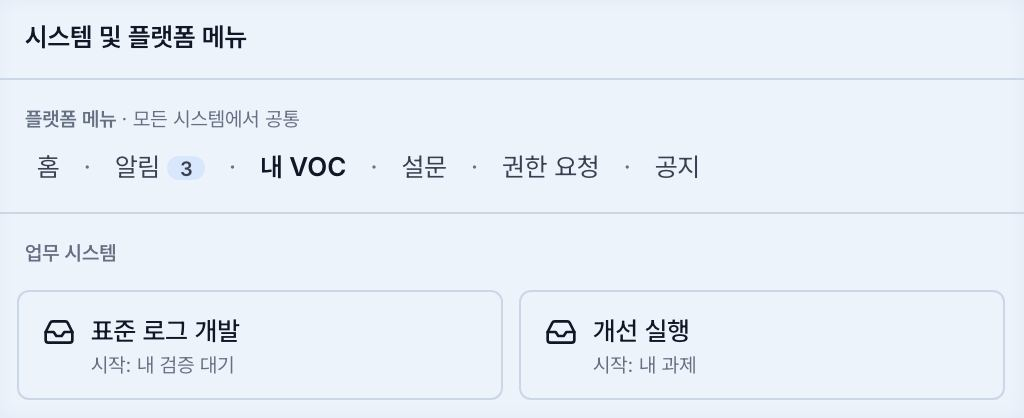
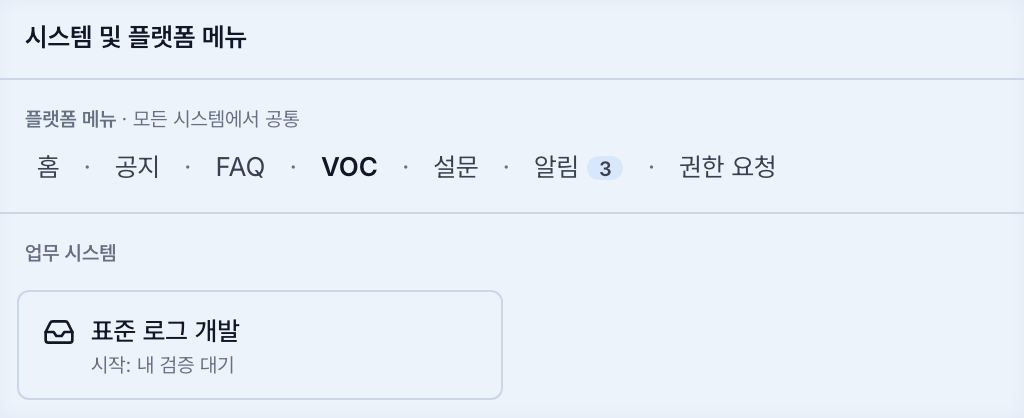
docs(site,#1329): re-shoot real-switcher without the retired 개선 실행 card; caption, alt, ledger row

diff --git a/site/index.html b/site/index.html
@@ -304,7 +304,7 @@
     <h3>권한 요청 · 내 VOC</h3>
     <div class="shots-row row-voc" style="--cols:minmax(0, 1fr) minmax(0, 0.42fr)"><figure class="shot-figure"><img src="assets/real/real-permission-requests.jpg" loading="lazy" alt="권한 요청 페이지. 위쪽에 기능 선택, 사유 입력, ‘요청 보내기’ 단추가 있는 ‘새 권한 요청’ 양식이 있고, 아래 ‘내 권한 요청’에 Power BI의 Survey 조회 요청 한 건이 ‘대기 중’ 표시, 사유, ‘요청 철회’ 단추와 함께 보입니다."><figcaption>권한 요청 · 기능 권한 요청 · 처리 상태 · 대기 중 철회 · 승인은 운영 콘솔 <a class="source-ref" href="#source-L132">L132</a></figcaption></figure><figure class="shot-figure shot-crop"><img src="assets/real/real-voc-detail.jpg" loading="lazy" alt="왼쪽에 내 VOC 목록 네 건이 VOC 번호·제목·처리 상태와 함께 있고, 오른쪽에 열린 VOC 상세 패널. 본문 아래에 ‘화면 정보’(화면·기간·room_name·Scope)와 ‘화면 열기’가 있고, 대화에 담당자의 공개 업데이트 두 건이 상태 변화와 함께 보입니다."><figcaption>내 VOC 상세 패널(오른쪽 부분) · 본문 끝 ‘화면 정보’ · ‘화면 열기’로 그 화면 다시 열기 <a class="source-ref" href="#source-L131">L131</a></figcaption></figure></div>
     <h3>VOC 등록 드로어 · 전환기</h3>
-    <div class="shots-row row-drawer" style="--cols:minmax(0, 1fr) minmax(0, 1.5fr)"><figure class="shot-figure shot-crop"><img src="assets/real/real-voc-drawer.jpg" loading="lazy" alt="오른쪽에 열린 VOC 등록 드로어. 위쪽에 ‘첨부할 화면 정보’ 칩(화면 MARS · 사이클타임 상세, 기간, room_name PHOTO, Scope MEM)이 있고, 아래에 제목·상세 설명이 채워진 입력과 출처·Managed System·Analytics Area·첨부 입력, 취소·VOC 제출 단추가 있습니다."><figcaption>VOC 등록 드로어(위쪽 부분) · 본문을 옆으로 밀고 열림 · 지금 화면 정보가 칩으로 · 칩을 지우면 첨부 안 함 <a class="source-ref" href="#source-L141">L141</a></figcaption></figure><figure class="shot-figure"><img src="assets/real/real-switcher.jpg" loading="lazy" alt="전환기 팝오버. 위쪽 ‘플랫폼 메뉴’ 줄에 홈·알림(배지 3)·내 VOC·설문·권한 요청·공지가 있고, 아래 ‘업무 시스템’에 표준 로그 개발·개선 실행 카드가 있습니다."><figcaption>전환기 · 위는 플랫폼 메뉴 · 아래는 권한 있는 업무 시스템 · 홈 공지는 이번 방문 동안 닫아 둠 <a class="source-ref" href="#source-L131">L131</a></figcaption></figure></div>
+    <div class="shots-row row-drawer" style="--cols:minmax(0, 1fr) minmax(0, 1.5fr)"><figure class="shot-figure shot-crop"><img src="assets/real/real-voc-drawer.jpg" loading="lazy" alt="오른쪽에 열린 VOC 등록 드로어. 위쪽에 ‘첨부할 화면 정보’ 칩(화면 MARS · 사이클타임 상세, 기간, room_name PHOTO, Scope MEM)이 있고, 아래에 제목·상세 설명이 채워진 입력과 출처·Managed System·Analytics Area·첨부 입력, 취소·VOC 제출 단추가 있습니다."><figcaption>VOC 등록 드로어(위쪽 부분) · 본문을 옆으로 밀고 열림 · 지금 화면 정보가 칩으로 · 칩을 지우면 첨부 안 함 <a class="source-ref" href="#source-L141">L141</a></figcaption></figure><figure class="shot-figure"><img src="assets/real/real-switcher.jpg" loading="lazy" alt="전환기 팝오버. 위쪽 ‘플랫폼 메뉴’ 줄에 홈·공지·FAQ·VOC·설문·알림(배지 3)·권한 요청이 있고, 아래 ‘업무 시스템’에 표준 로그 개발 카드가 있습니다."><figcaption>전환기 · 위는 플랫폼 메뉴 · 아래는 권한 있는 업무 시스템 · 홈 공지는 이번 방문 동안 닫아 둠 <a class="source-ref" href="#source-L131">L131</a></figcaption></figure></div>
   </div>
   <details class="evidence-details scene-evidence"><summary>근거</summary><p>이 화면들은 플랫폼 기능 화면이고 데이터는 코어 서버에서 옵니다. 예시 데모에서는 서버가 없어 ‘실서버 필요’를 보이고 알림 종은 배지 없이 보이며 홈의 ‘내 할 일’ 칸은 나오지 않습니다. 그림은 코어 서버를 연결한 실서버 모드에서 시드 사용자로 찍었고, 안에 보이는 VOC·설문·알림·권한 요청은 이 그림을 위해 만든 한국어 예시 데이터입니다. 언어 선택은 사용자 메뉴에 있습니다. <a class="source-ref" href="#source-L131">L131</a> · <a class="source-ref" href="#source-L132">L132</a> · <a class="source-ref" href="#source-L139">L139</a> · <a class="source-ref" href="#source-L141">L141</a></p></details>
   <p class="cond-note">아직 안 됨: 공지 목록 화면.</p>
@@ -3957,7 +3957,7 @@ export type ModuleHost = {
           <div id="source-L136"><h3>L136</h3><p>공개 컴포넌트 수(2026-11-02 다시 셈, main e0ae22111): <code>@ap/components</code> 기본 진입점 38개, <code>@ap/shell</code> 10개(L04), 도킹 진입점(<code>@ap/components/dock</code>) 2개. 셈 방법: <code>tooling/sdk/api/*.root.api.txt</code>(<code>pnpm sdk:api</code> 스냅샷)에서 <code>awk -F' [|] ' '$2=="function" &amp;&amp; $1 ~ /^[A-Z]/ {print $1}' &lt;파일&gt; | wc -l</code>로 센다(대문자 function export, 그리고 forwardRef로 내보낸 FloatingWindow 1개를 더한다). L02·L04와 같은 셈이다</p><p class="caption"><code>tooling/sdk/api/components.root.api.txt</code>, <code>tooling/sdk/api/shell.root.api.txt</code>, <code>tooling/sdk/api/components.dock.api.txt</code>, 위 awk 명령(2026-11-02 main e0ae22111에서 실행) · 이전 값(2026-10-23 main 092344cc): 기본 진입점 29, 도킹 2(<code>sdk-v0.12.0</code> 기준, PR #726·L143)</p></div>
           <div id="source-L137"><h3>L137</h3><p>용어 정리(2026-10-23): 본문·도식·캡션·alt·aria·SVG의 <code>공간</code>→<code>업무 시스템</code>, <code>워크스페이스</code>→<code>업무 시스템</code>, 단독 <code>조회 범위</code>→<code>Scope</code>, <code>실어댑터</code>→<code>서버 어댑터</code>, <code>레일</code>→<code>시스템 레일</code>로 바꿨다. 용어 페이지는 GLOSSARY.md의 용어 이름과 뜻을 따르되 사이트 문체(<code>~합니다</code>, ADR·절 번호 없음, 용어당 한두 문장)로 쓴다. 새 항목(플랫폼 메뉴·시스템 레일·전환기·작업 영역·패널·묶음·탭·높이 방식·화면 맞춤·아래로 쌓기·줄·프리셋·페이지 머리·서버 어댑터·VOC 등록 드로어·VOC 등록과 신고자 등)과 계약 유래 네 항목(딥링크·Audit·추적 번호·VOC)도 같은 문체다(조정자 결정, 2026-10-23). 코드 이름(<code>Space</code>, <code>spaceId</code>, <code>SPACES</code>)과 옛 표기를 인용한 원장 문구(L103의 <code>조회 범위 초과</code>)는 남긴다</p><p class="caption"><code>GLOSSARY.md</code>(PR #715·PR #718·PR #719), <code>site/glossary.html</code> · 2026-10-23 추가. L114는 이 행으로 확장</p></div>
           <div id="source-L138"><h3>L138</h3><p>본문이 인용하는 이슈 상태 점검(2026-10-23, 조정자가 확인해 전달한 목록): 열림 #37 #51 #98 #148 #149 #150 #151 #154 #155 #163 #164 #165 #233 #249 #291 #292 #293 #294 #332 #492 #540 #575 #586 #594 #604 #606 #671. 닫힘 #81 #213 #251 #252 #296–#301 #307 #312 #314 #430 #448 #470 #496–#498 #576 #590 #596 #607 #642 #651–#657 #660 #680 #686 #708. 번호 62 295 589 632 634 636 637 639 646–648 658 664 677 684 692 699 707 711 715 718 719 721은 PR이라 본문에 <code>PR #n</code>으로 쓴다. 2026-10-24 갱신: #657 닫힘(PR #729·#730), #708 닫힘(고치지 않음). 이 목록에 없는 번호는 점검하지 않았다</p><p class="caption">GitHub 이슈 상태(조정자가 2026-10-23에 확인해 전달한 목록) · 이 작업에서 GitHub에 직접 조회하지 않음. 권한·Scope의 #596 줄은 <code>결정됨 · 구현 전</code>, 로드맵의 #213·#252 문구는 닫힘 상태로 맞춤</p></div>
-          <div id="source-L139"><h3>L139</h3><p><code>site/assets/real/</code> JPEG 8장(배율 2, 품질 78, 주제 상자만 잘라 합계 약 550 KB; <code>real-my-voc</code>는 <code>real-voc-detail</code>과 같은 목록을 보여 2026-10-24에 뺐다)은 <code>node site/scripts/shots-real.mjs --url &lt;dev:real 주소&gt; --out site/assets/real</code>로 2026-10-23에 손으로 찍은 실서버 모드 캡처다. 코어 서버(일회용 DB)에 시드 페르소나 <code>mock-user-2</code>로 로그인했고, 이 그림을 위해 만든 한국어 예시 데이터만 보인다: VOC 4건(VOC 등록 드로어로 등록, 그중 2건에 담당자 공개 답변과 상태 변경 → 알림 3건), 설문 2건 중 1건 응답, 권한 요청 1건(권한 요청 화면으로 보낸 Survey 조회 요청; 홈 내 할 일에는 이 요청과 기존 요청 한 건, 응답할 설문, 바뀐 내 VOC가 보인다). 시험용 표식 줄(<code>[preview]</code>·<code>[seed]</code>)은 찍는 동안 숨기고, 보이면 스크립트가 실패한다. Pages CI는 서버 없이 mock 데모만 찍으므로 이 이미지는 CI가 다시 만들지 않는 고정 파일이다</p><p class="caption"><code>site/scripts/shots-real.mjs</code>, <code>site/assets/real/</code> · 2026-10-23 추가, 같은 날 다시 찍음(1x 전체 화면 → 2x 주제 상자). 2026-10-24 <code>real-permission-requests</code>·<code>real-home-todo</code> 추가(FIX4, 2x). 홈 공지 칸의 오류는 이 두 장의 상자 밖이라 내 할 일 상자만 검사한다. 2026-10-24 <code>real-switcher</code>만 팝오버 테두리 안쪽으로 다시 찍음(512×209 CSS px). 총량은 스크립트가 1.5 MB 상한으로 검사. 상세 대화의 작성자 이름은 시드 페르소나의 표시 이름</p></div>
+          <div id="source-L139"><h3>L139</h3><p><code>site/assets/real/</code> JPEG 8장(배율 2, 품질 78, 주제 상자만 잘라 합계 약 550 KB; <code>real-my-voc</code>는 <code>real-voc-detail</code>과 같은 목록을 보여 2026-10-24에 뺐다)은 <code>node site/scripts/shots-real.mjs --url &lt;dev:real 주소&gt; --out site/assets/real</code>로 2026-10-23에 손으로 찍은 실서버 모드 캡처다. 코어 서버(일회용 DB)에 시드 페르소나 <code>mock-user-2</code>로 로그인했고, 이 그림을 위해 만든 한국어 예시 데이터만 보인다: VOC 4건(VOC 등록 드로어로 등록, 그중 2건에 담당자 공개 답변과 상태 변경 → 알림 3건), 설문 2건 중 1건 응답, 권한 요청 1건(권한 요청 화면으로 보낸 Survey 조회 요청; 홈 내 할 일에는 이 요청과 기존 요청 한 건, 응답할 설문, 바뀐 내 VOC가 보인다). 시험용 표식 줄(<code>[preview]</code>·<code>[seed]</code>)은 찍는 동안 숨기고, 보이면 스크립트가 실패한다. Pages CI는 서버 없이 mock 데모만 찍으므로 이 이미지는 CI가 다시 만들지 않는 고정 파일이다</p><p class="caption"><code>site/scripts/shots-real.mjs</code>, <code>site/assets/real/</code> · 2026-10-23 추가, 같은 날 다시 찍음(1x 전체 화면 → 2x 주제 상자). 2026-10-24 <code>real-permission-requests</code>·<code>real-home-todo</code> 추가(FIX4, 2x). 홈 공지 칸의 오류는 이 두 장의 상자 밖이라 내 할 일 상자만 검사한다. 2026-10-24 <code>real-switcher</code>만 팝오버 테두리 안쪽으로 다시 찍음(512×209 CSS px). 2026-11-05 <code>real-switcher</code>만 다시 찍음(#1329): 개선 실행 공간을 접은(#1323) 뒤라 업무 시스템 카드는 표준 로그 개발 한 장이고, 플랫폼 메뉴 줄은 홈·공지·FAQ·VOC·설문·알림·권한 요청이다. 메뉴 이름이 바뀌어 캡처 스크립트의 검사 문구는 손으로 맞춘 사본으로 돌렸다. 총량은 스크립트가 1.5 MB 상한으로 검사. 상세 대화의 작성자 이름은 시드 페르소나의 표시 이름</p></div>
           <div id="source-L140"><h3>L140</h3><p>2026-10-23 문구 정리: 부록 도식 A 설명(L74)과 장면 5(장면 5 요약)의 <code>진행 중</code> 표기를 분석 보드가 동작한다는 현재 상태로 고쳤다(R4.1 완료 v0.14.0, 칸 끌어 배치는 L128). 모바일 목차의 기본 ▶ 표식은 CSS로 바꿨다</p><p class="caption"><code>docs/product/platform-requirements.md</code> R4.1, <code>site/assets/site.css</code> · 소개 사이트 잔여 관찰(백로그) 두 줄의 처리</p></div>
           <div id="source-L141"><h3>L141</h3><p>시스템 레일의 <code>VOC 등록</code>은 본문 오른쪽에 도킹 드로어를 연다. 본문을 밀어내고(overlay 아님) 오른쪽 패널은 한 번에 하나다. 열 때 화면 Context(시스템·메뉴, URL page key, 집계 단위, 기간, 전역 Context, 열린 상세 엔티티, 보이는 Correlation ID)를 지울 수 있는 칩으로 고정하고 지운 칩은 첨부하지 않는다. 제출하면 남은 정보가 설명 끝의 <code>화면 정보</code>와 <code>화면 열기</code> 링크로 붙는다. 작성 화면은 VOC 기능 화면이다. mock 데모에서는 드로어와 칩은 보이고 작성 화면 자리에 <code>실서버 필요</code>가 보인다(캡처 <code>voc-drawer</code>).</p><p class="caption">ADR-0070 결정 4–5, <code>packages/sdk/shell/src/voc/VocDrawer.tsx</code>, <code>apps/platform-web/src/feature-systems.ts</code>, GitHub #656·PR #727 · 2026-10-23 추가. 실서버 캡처 <code>real-voc-drawer</code>·<code>real-voc-detail</code>, mock 캡처 <code>voc-drawer</code></p></div>
           <div id="source-L142"><h3>L142</h3><p>알림·설문·내 VOC·VOC 등록 화면은 기능 화면(<code>apps/feature-screens</code>)을 플랫폼 소비 패키지(<code>platform/my-activity</code>)로 플랫폼 안에 올린 것이고, 데이터는 <code>/api/features</code> 앞단을 거쳐 코어 서버(<code>apps/platform-api</code>)에서 온다. VOC·Task 처리 화면은 사용자에게는 <code>내 활동</code>, 운영자에게는 <code>운영 콘솔</code>에서 열린다(ADR-0100)</p><p class="caption">ADR-0070, ADR-0097, ADR-0100, <code>apps/platform-web/src/feature-systems.ts</code> · 2026-10-23 추가, 2026-10-29 정정. 부록 위험 표 <code>코어 서버 의존</code> 행의 근거</p></div>

diff --git a/site/SOURCES.md b/site/SOURCES.md
@@ -150,7 +150,7 @@
 | L136 | 공개 컴포넌트 수(2026-11-02 다시 셈, main e0ae22111): `@ap/components` 기본 진입점 38개, `@ap/shell` 10개(L04), 도킹 진입점(`@ap/components/dock`) 2개. 셈 방법: `tooling/sdk/api/*.root.api.txt`(`pnpm sdk:api` 스냅샷)에서 `awk -F' [\|] ' '$2=="function" && $1 ~ /^[A-Z]/ {print $1}' <파일> \| wc -l`로 센다(대문자 function export, 그리고 forwardRef로 내보낸 FloatingWindow 1개를 더한다). L02·L04와 같은 셈이다 | `tooling/sdk/api/components.root.api.txt`, `tooling/sdk/api/shell.root.api.txt`, `tooling/sdk/api/components.dock.api.txt`, 위 awk 명령(2026-11-02 main e0ae22111에서 실행) | 이전 값(2026-10-23 main 092344cc): 기본 진입점 29, 도킹 2(`sdk-v0.12.0` 기준, PR #726·L143) |
 | L137 | 용어 정리(2026-10-23): 본문·도식·캡션·alt·aria·SVG의 `공간`→`업무 시스템`, `워크스페이스`→`업무 시스템`, 단독 `조회 범위`→`Scope`, `실어댑터`→`서버 어댑터`, `레일`→`시스템 레일`로 바꿨다. 용어 페이지는 GLOSSARY.md의 용어 이름과 뜻을 따르되 사이트 문체(`~합니다`, ADR·절 번호 없음, 용어당 한두 문장)로 쓴다. 새 항목(플랫폼 메뉴·시스템 레일·전환기·작업 영역·패널·묶음·탭·높이 방식·화면 맞춤·아래로 쌓기·줄·프리셋·페이지 머리·서버 어댑터·VOC 등록 드로어·VOC 등록과 신고자 등)과 계약 유래 네 항목(딥링크·Audit·추적 번호·VOC)도 같은 문체다(조정자 결정, 2026-10-23). 코드 이름(`Space`, `spaceId`, `SPACES`)과 옛 표기를 인용한 원장 문구(L103의 `조회 범위 초과`)는 남긴다 | `GLOSSARY.md`(PR #715·PR #718·PR #719), `site/glossary.html` | 2026-10-23 추가. L114는 이 행으로 확장 |
 | L138 | 본문이 인용하는 이슈 상태 점검(2026-10-23, 조정자가 확인해 전달한 목록): 열림 #37 #51 #98 #148 #149 #150 #151 #154 #155 #163 #164 #165 #233 #249 #291 #292 #293 #294 #332 #492 #540 #575 #586 #594 #604 #606 #671. 닫힘 #81 #213 #251 #252 #296–#301 #307 #312 #314 #430 #448 #470 #496–#498 #576 #590 #596 #607 #642 #651–#657 #660 #680 #686 #708. 번호 62 295 589 632 634 636 637 639 646–648 658 664 677 684 692 699 707 711 715 718 719 721은 PR이라 본문에 `PR #n`으로 쓴다. 2026-10-24 갱신: #657 닫힘(PR #729·#730), #708 닫힘(고치지 않음). 이 목록에 없는 번호는 점검하지 않았다 | GitHub 이슈 상태(조정자가 2026-10-23에 확인해 전달한 목록) | 이 작업에서 GitHub에 직접 조회하지 않음. 권한·Scope의 #596 줄은 `결정됨 · 구현 전`, 로드맵의 #213·#252 문구는 닫힘 상태로 맞춤 |
-| L139 | `site/assets/real/` JPEG 8장(배율 2, 품질 78, 주제 상자만 잘라 합계 약 550 KB; `real-my-voc`는 `real-voc-detail`과 같은 목록을 보여 2026-10-24에 뺐다)은 `node site/scripts/shots-real.mjs --url <dev:real 주소> --out site/assets/real`로 2026-10-23에 손으로 찍은 실서버 모드 캡처다. 코어 서버(일회용 DB)에 시드 페르소나 `mock-user-2`로 로그인했고, 이 그림을 위해 만든 한국어 예시 데이터만 보인다: VOC 4건(VOC 등록 드로어로 등록, 그중 2건에 담당자 공개 답변과 상태 변경 → 알림 3건), 설문 2건 중 1건 응답, 권한 요청 1건(권한 요청 화면으로 보낸 Survey 조회 요청; 홈 `내 할 일`에는 이 요청과 기존 요청 한 건, 응답할 설문, 바뀐 내 VOC가 보인다). 시험용 표식 줄(`[preview]`·`[seed]`)은 찍는 동안 숨기고, 보이면 스크립트가 실패한다. Pages CI는 서버 없이 mock 데모만 찍으므로 이 이미지는 CI가 다시 만들지 않는 고정 파일이다 | `site/scripts/shots-real.mjs`, `site/assets/real/` | 2026-10-23 추가, 같은 날 다시 찍음(1x 전체 화면 → 2x 주제 상자). 2026-10-24 `real-permission-requests`·`real-home-todo` 추가(2x). 홈 공지 칸의 오류는 이 상자 밖이라 `내 할 일` 상자만 오류 문구를 검사한다. 2026-10-24 `real-switcher`만 팝오버 테두리 안쪽으로 다시 찍음(512×209 CSS px). 총량은 스크립트가 1.5 MB 상한으로 검사. 상세 대화의 작성자 이름은 시드 페르소나의 표시 이름 |
+| L139 | `site/assets/real/` JPEG 8장(배율 2, 품질 78, 주제 상자만 잘라 합계 약 550 KB; `real-my-voc`는 `real-voc-detail`과 같은 목록을 보여 2026-10-24에 뺐다)은 `node site/scripts/shots-real.mjs --url <dev:real 주소> --out site/assets/real`로 2026-10-23에 손으로 찍은 실서버 모드 캡처다. 코어 서버(일회용 DB)에 시드 페르소나 `mock-user-2`로 로그인했고, 이 그림을 위해 만든 한국어 예시 데이터만 보인다: VOC 4건(VOC 등록 드로어로 등록, 그중 2건에 담당자 공개 답변과 상태 변경 → 알림 3건), 설문 2건 중 1건 응답, 권한 요청 1건(권한 요청 화면으로 보낸 Survey 조회 요청; 홈 `내 할 일`에는 이 요청과 기존 요청 한 건, 응답할 설문, 바뀐 내 VOC가 보인다). 시험용 표식 줄(`[preview]`·`[seed]`)은 찍는 동안 숨기고, 보이면 스크립트가 실패한다. Pages CI는 서버 없이 mock 데모만 찍으므로 이 이미지는 CI가 다시 만들지 않는 고정 파일이다 | `site/scripts/shots-real.mjs`, `site/assets/real/` | 2026-10-23 추가, 같은 날 다시 찍음(1x 전체 화면 → 2x 주제 상자). 2026-10-24 `real-permission-requests`·`real-home-todo` 추가(2x). 홈 공지 칸의 오류는 이 상자 밖이라 `내 할 일` 상자만 오류 문구를 검사한다. 2026-10-24 `real-switcher`만 팝오버 테두리 안쪽으로 다시 찍음(512×209 CSS px). 2026-11-05 `real-switcher`만 다시 찍음(#1329): 개선 실행 공간을 접은(#1323) 뒤라 업무 시스템 카드는 표준 로그 개발 한 장이고, 플랫폼 메뉴 줄은 홈·공지·FAQ·VOC·설문·알림·권한 요청이다. 메뉴 이름이 바뀌어 캡처 스크립트의 검사 문구는 손으로 맞춘 사본으로 돌렸다. 총량은 스크립트가 1.5 MB 상한으로 검사. 상세 대화의 작성자 이름은 시드 페르소나의 표시 이름 |
 | L140 | 2026-10-23 문구 정리: 부록 도식 A 설명(L74)과 장면 5(장면 5 요약)의 `진행 중` 표기를 분석 보드가 동작한다는 현재 상태로 고쳤다(R4.1 완료 v0.14.0, 칸 끌어 배치는 L128). 모바일 목차의 기본 ▶ 표식은 CSS로 바꿨다 | `docs/product/platform-requirements.md` R4.1, `site/assets/site.css` | 소개 사이트 잔여 관찰(백로그) 두 줄의 처리 |
 | L141 | 시스템 레일의 `VOC 등록`은 본문 오른쪽에 도킹 드로어를 연다. 본문을 밀어내고(overlay 아님) 오른쪽 패널은 한 번에 하나다. 열 때 화면 Context(시스템·메뉴, URL page key, 집계 단위, 기간, 전역 Context, 열린 상세 엔티티, 보이는 Correlation ID)를 지울 수 있는 칩으로 고정하고 지운 칩은 첨부하지 않는다. 제출하면 남은 정보가 설명 끝의 `화면 정보`와 `화면 열기` 링크로 붙는다. 작성 화면은 VOC 기능 화면이다. mock 데모에서는 드로어와 칩은 보이고 작성 화면 자리에 `실서버 필요`가 보인다(캡처 `voc-drawer`). | ADR-0070 결정 4–5, `packages/sdk/shell/src/voc/VocDrawer.tsx`, `apps/platform-web/src/feature-systems.ts`, GitHub #656·PR #727 | 2026-10-23 추가. 실서버 캡처 `real-voc-drawer`·`real-voc-detail`, mock 캡처 `voc-drawer` |
 | L142 | 알림·설문·내 VOC·VOC 등록 화면은 기능 화면(`apps/feature-screens`)을 플랫폼 소비 패키지(`platform/my-activity`)로 플랫폼 안에 올린 것이고, 데이터는 `/api/features` 앞단을 거쳐 코어 서버(`apps/platform-api`)에서 온다. VOC·Task 처리 화면은 사용자에게는 `내 활동`, 운영자에게는 `운영 콘솔`에서 열린다(ADR-0100) | ADR-0070, ADR-0097, ADR-0100, `apps/platform-web/src/feature-systems.ts` | 2026-10-23 추가, 2026-10-29 정정. 부록 위험 표 `코어 서버 의존` 행의 근거 |
